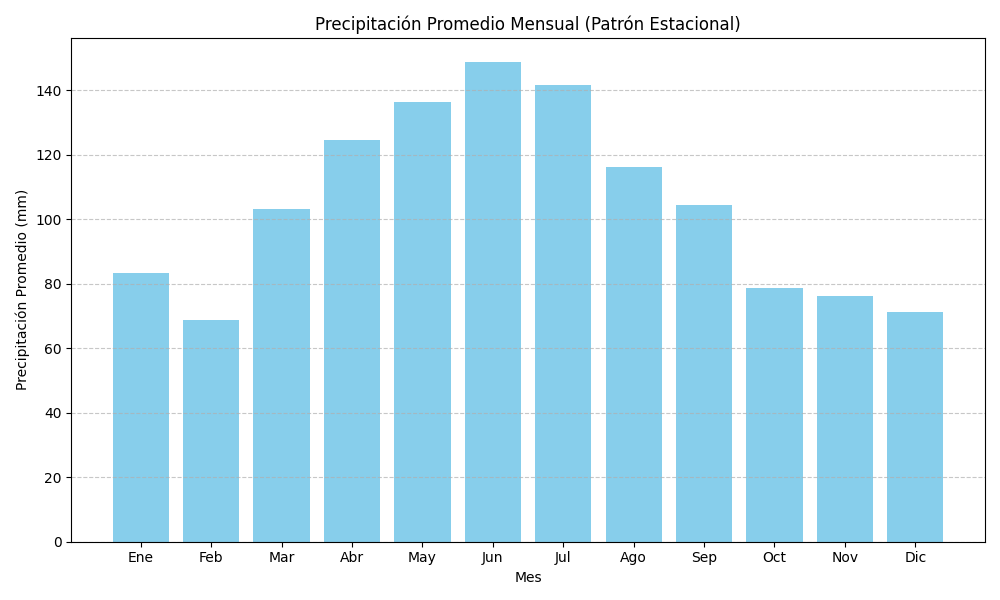
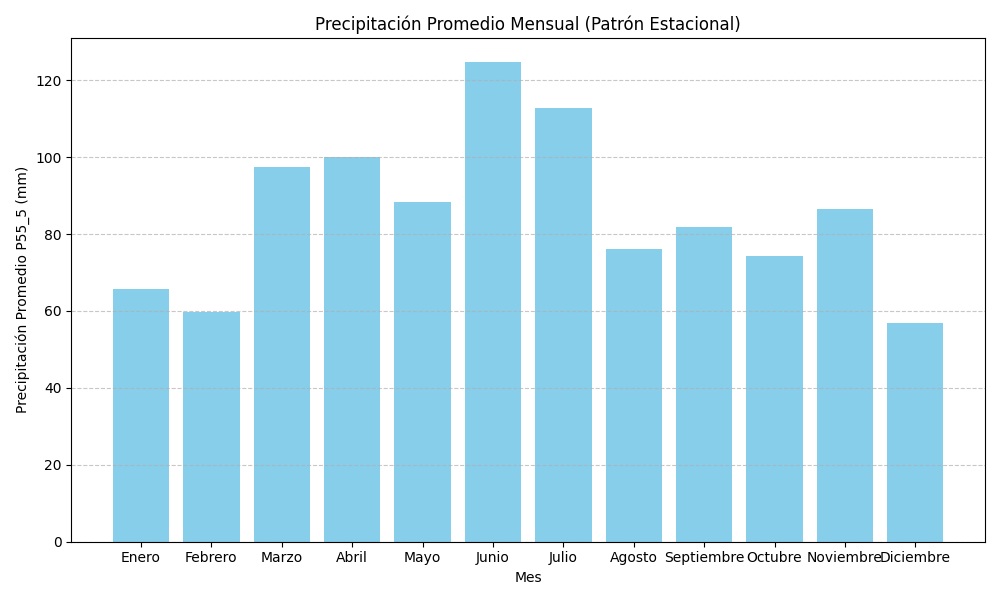
updates

diff --git a/templates/index.html b/templates/index.html
@@ -3,107 +3,128 @@
 <head>
     <meta charset="UTF-8">
     <meta name="viewport" content="width=device-width, initial-scale=1.0">
-    <title>PreciPredict RF - Predicción de Precipitación</title>
+    <title>🌧 Recomendaciones - Predicción de Precipitación estación P55</title>
     <link rel="stylesheet" href="https://stackpath.bootstrapcdn.com/bootstrap/4.5.2/css/bootstrap.min.css">
     <link rel="stylesheet" href="{{ url_for('static', filename='style.css') }}">
 </head>
 <body>
     <div class="container my-4">
-        <h1 class="text-center mb-4">Predicción de Precipitación (P55)</h1>
-        
-        <!-- 
-<div class="card mb-4">
-    <div class="card-header">
-        <h2>Métricas de Evaluación del Modelo</h2>
-    </div>
-    <div class="card-body">
-        <p>Estas métricas reflejan el rendimiento del modelo en el conjunto de prueba, indicando su precisión.</p>
-        <ul class="list-group list-group-flush">
-            {% for key, value in metrics.items() %}
-                <li class="list-group-item"><strong>{{ key }}:</strong> {{ value }}</li>
-            {% endfor %}
-        </ul>
-    </div>
-</div>
+        <h1 class="text-center mb-4">🌦 Recomendaciones - Predicción de Precipitación estación P55</h1>
 
-<div class="card mb-4">
-    <div class="card-header">
-        <h2>Gráfico de Rendimiento del Modelo (Conjunto de Prueba)</h2>
-    </div>
-    <div class="card-body text-center">
-        <p>Compara las precipitaciones reales vs. las predicciones del modelo en el conjunto de prueba.</p>
-        <img src="{{ url_for('static', filename='prediccion_precipitacion_ml_test.png') }}" alt="Gráfico de Predicciones en Prueba" class="img-fluid border rounded shadow-sm">
-    </div>
-</div>
--->
+        <!-- Ubicación de la Estación -->
+        <div class="card mb-4">
+            <div class="card-header">
+                <h2>📍 Ubicación de la Estación P55</h2>
+            </div>
+            <div class="card-body text-center">
+                <p>🗺 Este mapa muestra la captación Diguchi (P55), se encuentran en la cuenca del Antisana, dentro del Área de Conservación Hídrica (ACH) Antisana.</p>
+                <img src="{{ url_for('static', filename='Imagen1.png') }}" alt="Ubicación de la Estación P55_5" class="img-fluid border rounded shadow-sm">
+            </div>
+        </div>
+
+        <!-- Sección comentada (Métricas y gráfico de prueba) -->
+        {# 
+        <div class="card mb-4">
+            <div class="card-header">
+                <h2>📊 Métricas de Evaluación del Modelo</h2>
+            </div>
+            <div class="card-body">
+                <p>📈 Estas métricas reflejan el rendimiento del modelo Random Forest en el conjunto de prueba.</p>
+                <ul class="list-group list-group-flush">
+                    {% for key, value in metrics.items() %}
+                        <li class="list-group-item"><strong>{{ key }}:</strong> {{ value }}</li>
+                    {% endfor %}
+                </ul>
+            </div>
+        </div>
 
         <div class="card mb-4">
             <div class="card-header">
-                <h2>Predicciones Futuras de Precipitación</h2>
+                <h2>📉 Gráfico de Rendimiento del Modelo (Conjunto de Prueba)</h2>
+            </div>
+            <div class="card-body text-center">
+                <p>🔍 Este gráfico compara la precipitación real observada con las predicciones generadas por el modelo Random Forest.</p>
+                <img src="{{ url_for('static', filename='prediccion_precipitacion_ml_test.png') }}" alt="Gráfico de Predicciones en Prueba" class="img-fluid border rounded shadow-sm">
+            </div>
+        </div>
+        #}
+
+        <!-- Patrón Estacional -->
+        <div class="card mb-4">
+            <div class="card-header">
+                <h2>📅 Patrón Estacional de Precipitación</h2>
+            </div>
+            <div class="card-body text-center">
+                <p>📊 Este gráfico de barras muestra la precipitación promedio histórica por mes del año en la estación P55.</p>
+                <img src="{{ url_for('static', filename='precipitacion_mensual_promedio_barras.png') }}" alt="Precipitación Promedio Mensual" class="img-fluid border rounded shadow-sm">
+            </div>
+        </div>
+
+        <!-- Predicciones Futuras -->
+        <div class="card mb-4">
+            <div class="card-header">
+                <h2>🔮 Predicciones Futuras de Precipitación</h2>
             </div>
             <div class="card-body">
-                <p>Tabla con los valores de precipitación predicha para los próximos {{ ANIOS_A_PREDECIR * 12 }} meses.</p>
+                <p>📆 Tabla con los valores de precipitación para los próximos <strong>{{ ANIOS_A_PREDECIR * 12 }}</strong> meses.</p>
                 <div class="table-responsive" style="max-height: 400px; overflow-y: auto;">
                     {{ predictions_html | safe }}
                 </div>
             </div>
         </div>
 
+        <!-- Gráfico de Predicciones Futuras -->
         <div class="card mb-4">
             <div class="card-header">
-                <h2>Gráfico de Predicciones Futuras</h2>
+                <h2>📈 Gráfico de Predicciones Futuras</h2>
             </div>
             <div class="card-body text-center">
-                <p>Visualización de los datos históricos y la predicción del modelo para el futuro.</p>
+                <p>🔎 Visualización de los datos históricos y la proyección del modelo Random Forest para los próximos años.</p>
                 <img src="{{ url_for('static', filename='prediccion_precipitacion_ml_future.png') }}" alt="Gráfico de Predicciones Futuras" class="img-fluid border rounded shadow-sm">
             </div>
         </div>
 
+        <!-- Recomendaciones de la IA -->
         <div class="card mb-4">
             <div class="card-header">
-                <h2>Recomendaciones de la IA (Gemini)</h2>
+                <h2>🤖 Recomendaciones de la IA (Gemini)</h2>
             </div>
             <div class="card-body">
-                <p>Obtén recomendaciones basadas en las predicciones de precipitación para agricultores y gestión de riesgos. La IA analizará las predicciones de los próximos meses.</p>
-                <button id="getAiRecommendations" class="btn btn-primary mb-3">Obtener Recomendaciones</button>
+                <p>💡 Obtén recomendaciones personalizadas basadas en las predicciones de precipitación. La IA analizará los datos y ofrecerá sugerencias útiles para agricultores y gestión de recursos hídricos.</p>
+                <button id="getAiRecommendations" class="btn btn-primary mb-3">🧠 Obtener Recomendaciones</button>
                 <div id="aiResponse" class="mt-3 p-3 border rounded bg-light text-secondary">
-                    Haz clic en el botón para generar las recomendaciones.
+                    ⏳ Haz clic en el botón para generar las recomendaciones.
                 </div>
             </div>
         </div>
 
     </div>
 
+    <!-- Scripts -->
     <script src="https://code.jquery.com/jquery-3.5.1.slim.min.js"></script>
     <script src="https://cdn.jsdelivr.net/npm/@popperjs/core@2.5.4/dist/umd/popper.min.js"></script>
     <script src="https://stackpath.bootstrapcdn.com/bootstrap/4.5.2/js/bootstrap.min.js"></script>
     <script>
-        document.getElementById('getAiRecommendations').addEventListener('click', function() {
+        document.getElementById('getAiRecommendations').addEventListener('click', function () {
             const aiResponseDiv = document.getElementById('aiResponse');
             aiResponseDiv.innerHTML = '<div class="spinner-border text-primary" role="status"><span class="sr-only">Cargando...</span></div> Generando recomendaciones... Esto puede tardar unos segundos.';
-            
-            // Ya no es necesario recopilar datos de la tabla desde el JS,
-            // la IA los toma directamente de la variable global en Python.
-            // Simplemente hacemos la llamada POST sin un body complejo.
 
             fetch('/ask_ai', {
                 method: 'POST',
                 headers: {
                     'Content-Type': 'application/json',
                 },
-                body: JSON.stringify({}) // Cuerpo vacío o mínimo si no se envían datos específicos
+                body: JSON.stringify({})
             })
             .then(response => response.json())
             .then(data => {
-                // Formatear la respuesta para una mejor visualización (saltos de línea)
                 let formattedResponse = data.response.replace(/\n/g, '<br>');
-                // Convertir negritas de Markdown (**texto**) a HTML (<strong>texto</strong>)
                 formattedResponse = formattedResponse.replace(/\*\*(.*?)\*\*/g, '<strong>$1</strong>'); 
                 aiResponseDiv.innerHTML = formattedResponse;
             })
             .catch(error => {
                 console.error('Error:', error);
-                aiResponseDiv.innerHTML = 'Error al obtener recomendaciones de la IA. Por favor, revisa la consola para más detalles.';
+                aiResponseDiv.innerHTML = '❌ Error al obtener recomendaciones de la IA. Por favor, revisa la consola para más detalles.';
             });
         });
     </script>

diff --git a/static/style.css b/static/style.css
@@ -1,0 +1,40 @@
+body {
+    background-color: #f5f8fa;
+    font-family: 'Segoe UI', Tahoma, Geneva, Verdana, sans-serif;
+}
+
+.card {
+    border-radius: 0.75rem;
+    box-shadow: 0 0 12px rgba(0, 0, 0, 0.05);
+}
+
+.card-header {
+    background-color: #007bff;
+    color: white;
+    font-weight: bold;
+    font-size: 1.25rem;
+}
+
+.card-body p {
+    font-size: 1rem;
+}
+
+button.btn-primary {
+    background-color: #007bff;
+    border: none;
+    font-weight: 600;
+    transition: background-color 0.3s ease;
+}
+
+button.btn-primary:hover {
+    background-color: #0056b3;
+}
+
+img {
+    max-height: 400px;
+    object-fit: contain;
+}
+
+.table-responsive {
+    font-size: 0.95rem;
+}

diff --git a/forest.py b/forest.py
@@ -73,6 +73,7 @@ global_future_predictions_df = pd.DataFrame()
 global_metrics_ml = {}
 global_plot_path_test = 'static/prediccion_precipitacion_ml_test.png'
 global_plot_path_future = 'static/prediccion_precipitacion_ml_future.png'
+global_plot_path_monthly_avg = 'static/precipitacion_mensual_promedio_barras.png' # Nueva ruta para el gráfico de promedio mensual
 
 # --- 1. Carga y Preprocesamiento de Datos ---
 def load_and_preprocess_data(ruta_csv):
@@ -146,11 +147,29 @@ def train_and_predict():
     Carga datos, entrena el modelo, evalúa y genera predicciones futuras.
     Actualiza variables globales y guarda gráficos.
     """
-    global global_future_predictions_df, global_metrics_ml
+    global global_future_predictions_df, global_metrics_ml, global_plot_path_monthly_avg
 
     y_series = load_and_preprocess_data(RUTA_CSV)
     if y_series is None:
         return False # Indicar que hubo un error
+
+    # --- Generar gráfico de promedio mensual ---
+    monthly_avg_df = y_series.groupby(y_series.index.month).mean()
+    meses_nombres = {1: 'Enero', 2: 'Febrero', 3: 'Marzo', 4: 'Abril', 5: 'Mayo', 6: 'Junio',
+                     7: 'Julio', 8: 'Agosto', 9: 'Septiembre', 10: 'Octubre', 11: 'Noviembre', 12: 'Diciembre'}
+    monthly_avg_df = monthly_avg_df.rename(index=meses_nombres)
+
+    plt.figure(figsize=(10, 6))
+    plt.bar(monthly_avg_df.index, monthly_avg_df.values, color='skyblue')
+    plt.title('Precipitación Promedio Mensual (Patrón Estacional)')
+    plt.xlabel('Mes')
+    plt.ylabel('Precipitación Promedio P55_5 (mm)')
+    plt.grid(axis='y', linestyle='--', alpha=0.7)
+    plt.tight_layout()
+    plt.savefig(global_plot_path_monthly_avg) 
+    plt.close()
+    print(f"Gráfico de barras de precipitación promedio mensual guardado como '{global_plot_path_monthly_avg}'")
+
 
     df_ml = create_features_for_ml_univariate(y_series, Lags_precipitacion, Rolling_windows_precipitacion)
     
@@ -234,6 +253,7 @@ def train_and_predict():
             if len(history_buffer) >= lag_val:
                 current_features_dict[f'target_lag_{lag_val}'] = history_buffer[-lag_val]
             else:
+                # Si no hay suficientes datos en el buffer para un lag, usar la media histórica como fallback
                 current_features_dict[f'target_lag_{lag_val}'] = y_series.mean()
 
         # Estadísticas de ventana móvil (usando el history_buffer)
@@ -243,6 +263,7 @@ def train_and_predict():
                 current_features_dict[f'target_rolling_mean_{window}'] = temp_series.tail(window).mean()
                 current_features_dict[f'target_rolling_std_{window}'] = temp_series.tail(window).std()
             else:
+                # Si no hay suficientes datos en el buffer para la ventana, usar la media/std histórica como fallback
                 current_features_dict[f'target_rolling_mean_{window}'] = y_series.mean()
                 current_features_dict[f'target_rolling_std_{window}'] = y_series.std()
 
@@ -262,7 +283,6 @@ def train_and_predict():
         history_buffer.append(next_predicted_value)
 
     # Crear DataFrame final de predicciones futuras
-    # APLICAR FORMATO DE 2 DECIMALES AQUÍ PARA LA COLUMNA 'P55_5_Predicho'
     global_future_predictions_df = pd.DataFrame({
         'Fecha': future_dates_ml,
         'P55_5_Predicho': [f"{val:.2f}" for val in future_predictions_ml] # Formatear a 2 decimales
@@ -304,7 +324,6 @@ print("Modelo inicializado y predicciones generadas con éxito.")
 @app.route('/')
 def index():
     predictions_display_df = global_future_predictions_df.copy()
-    # No es necesario formatear a string aquí si ya se hizo al crear global_future_predictions_df
     predictions_display_df['Fecha'] = predictions_display_df['Fecha'].dt.strftime('%Y-%m-%d')
     predictions_html = predictions_display_df.to_html(index=False, classes='table table-striped table-hover')
     
@@ -313,6 +332,8 @@ def index():
                            predictions_html=predictions_html,
                            plot_test=global_plot_path_test,
                            plot_future=global_plot_path_future,
+                           plot_monthly_avg=global_plot_path_monthly_avg, # Pasando la nueva ruta del gráfico
+                           plot_location='static/Imagen1.png', # Ruta a la imagen de ubicación
                            ANIOS_A_PREDECIR=ANIOS_A_PREDECIR)
 
 @app.route('/ask_ai', methods=['POST'])
@@ -339,8 +360,8 @@ def ask_ai():
     relevant_predictions = global_future_predictions_df
     
     # Formatear las predicciones para el prompt, asegurando los 2 decimales
-    formatted_predictions = "\n".join([f"- {row['Fecha'].strftime('%Y-%m-%d')}: {row['P55_5_Predicho']} mm" # Ya está formateado a string con 2 decimales
-                                        for index, row in relevant_predictions.iterrows()])
+    formatted_predictions = "\n".join([f"- {row['Fecha']}: {row['P55_5_Predicho']} mm" # Ya está formateado a string con 2 decimales
+                                         for index, row in relevant_predictions.iterrows()])
     
     full_prompt = f"{prompt_base}\n{formatted_predictions}\n\n" \
                   f"Por favor, estructura tus recomendaciones claramente en dos secciones: 'Para Agricultores' y 'Para Gestión de Riesgos'. Incluye sugerencias específicas para meses o periodos si los datos lo justifican."
